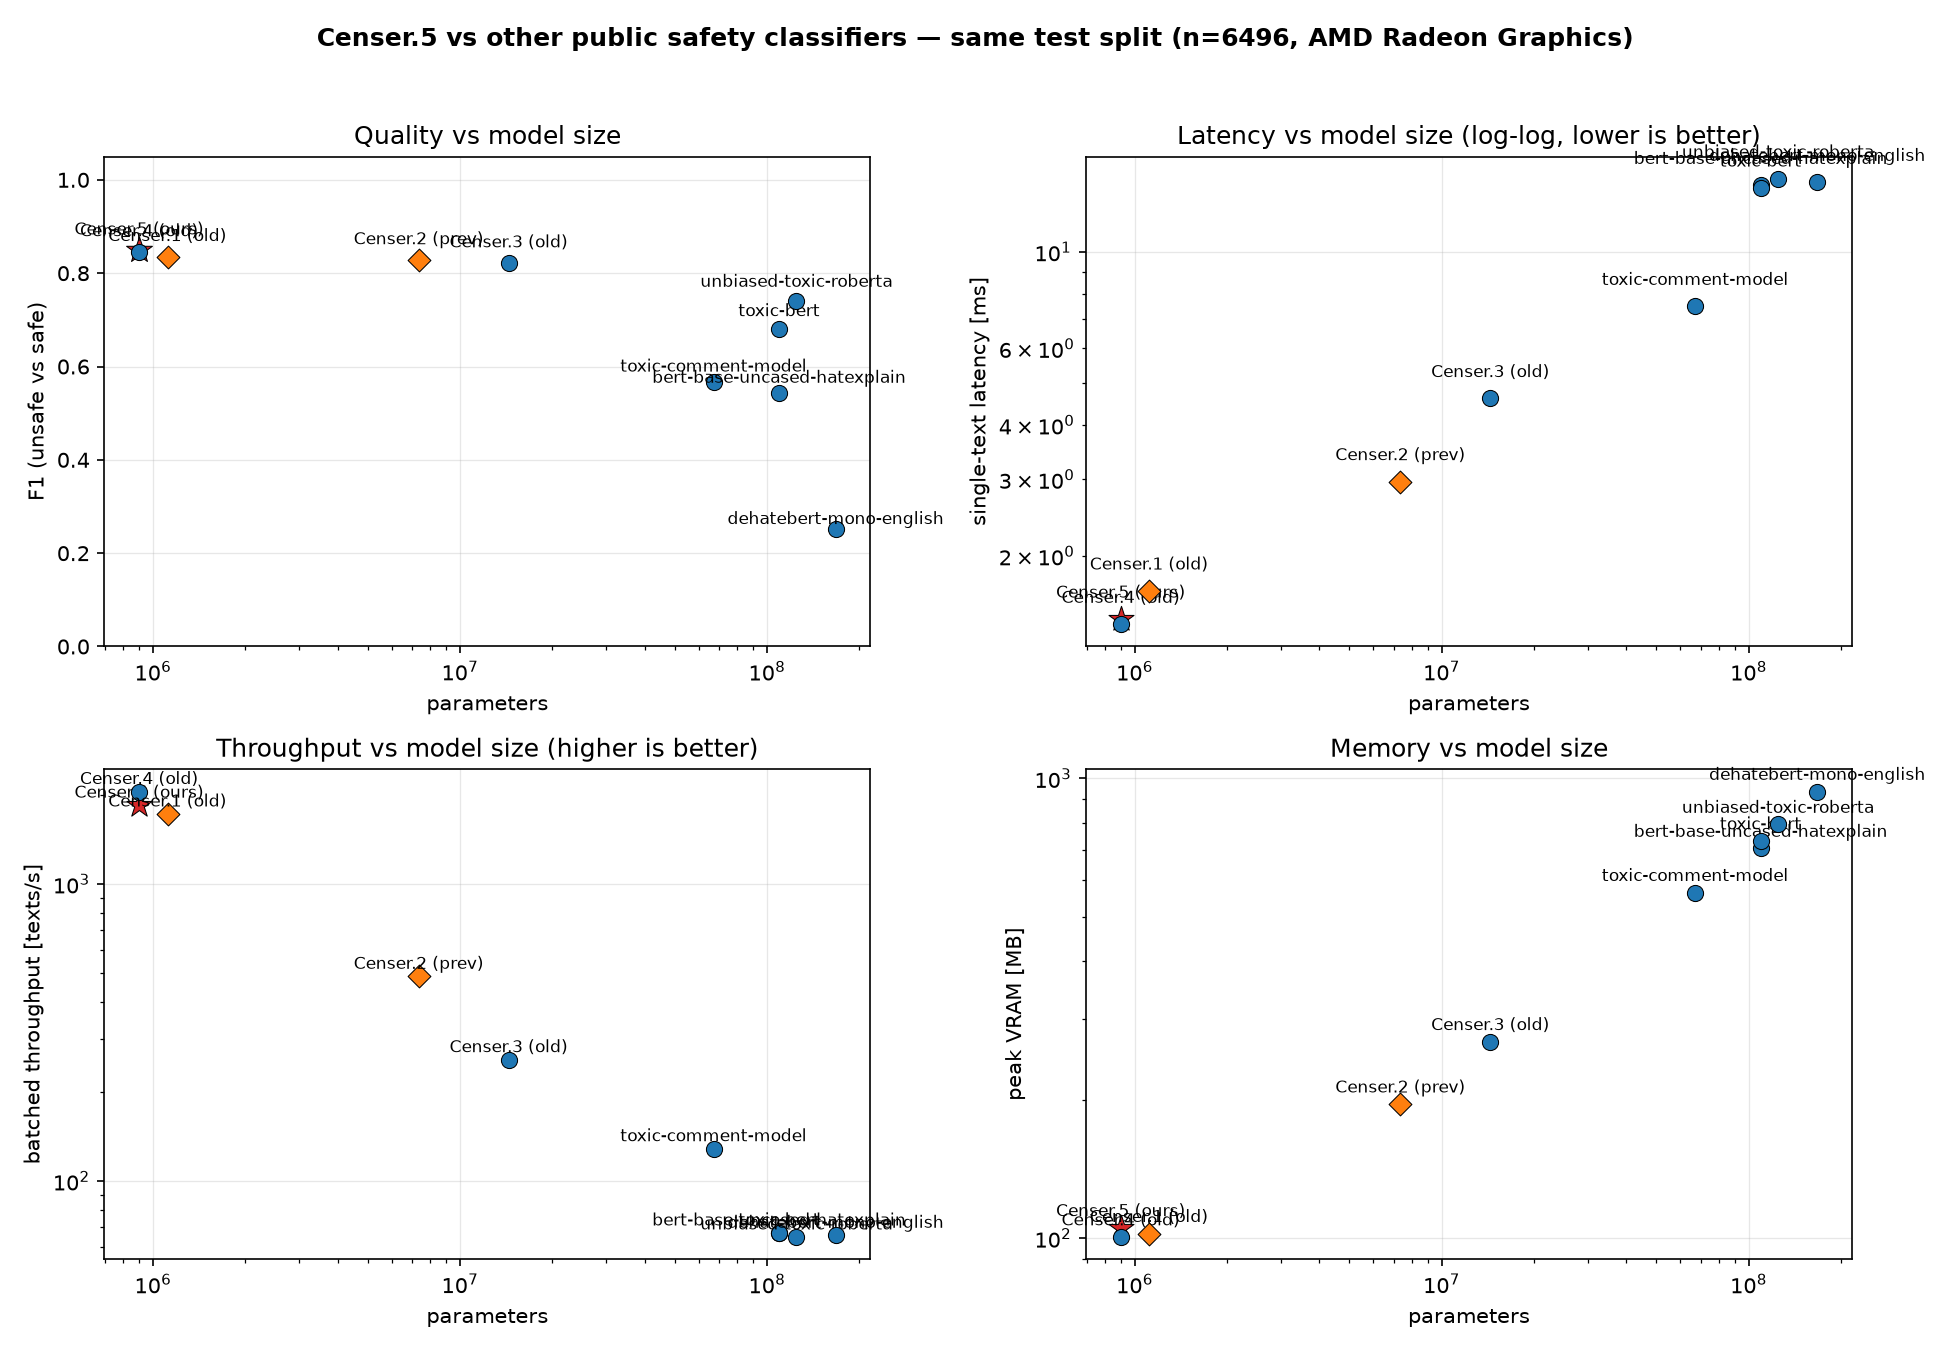
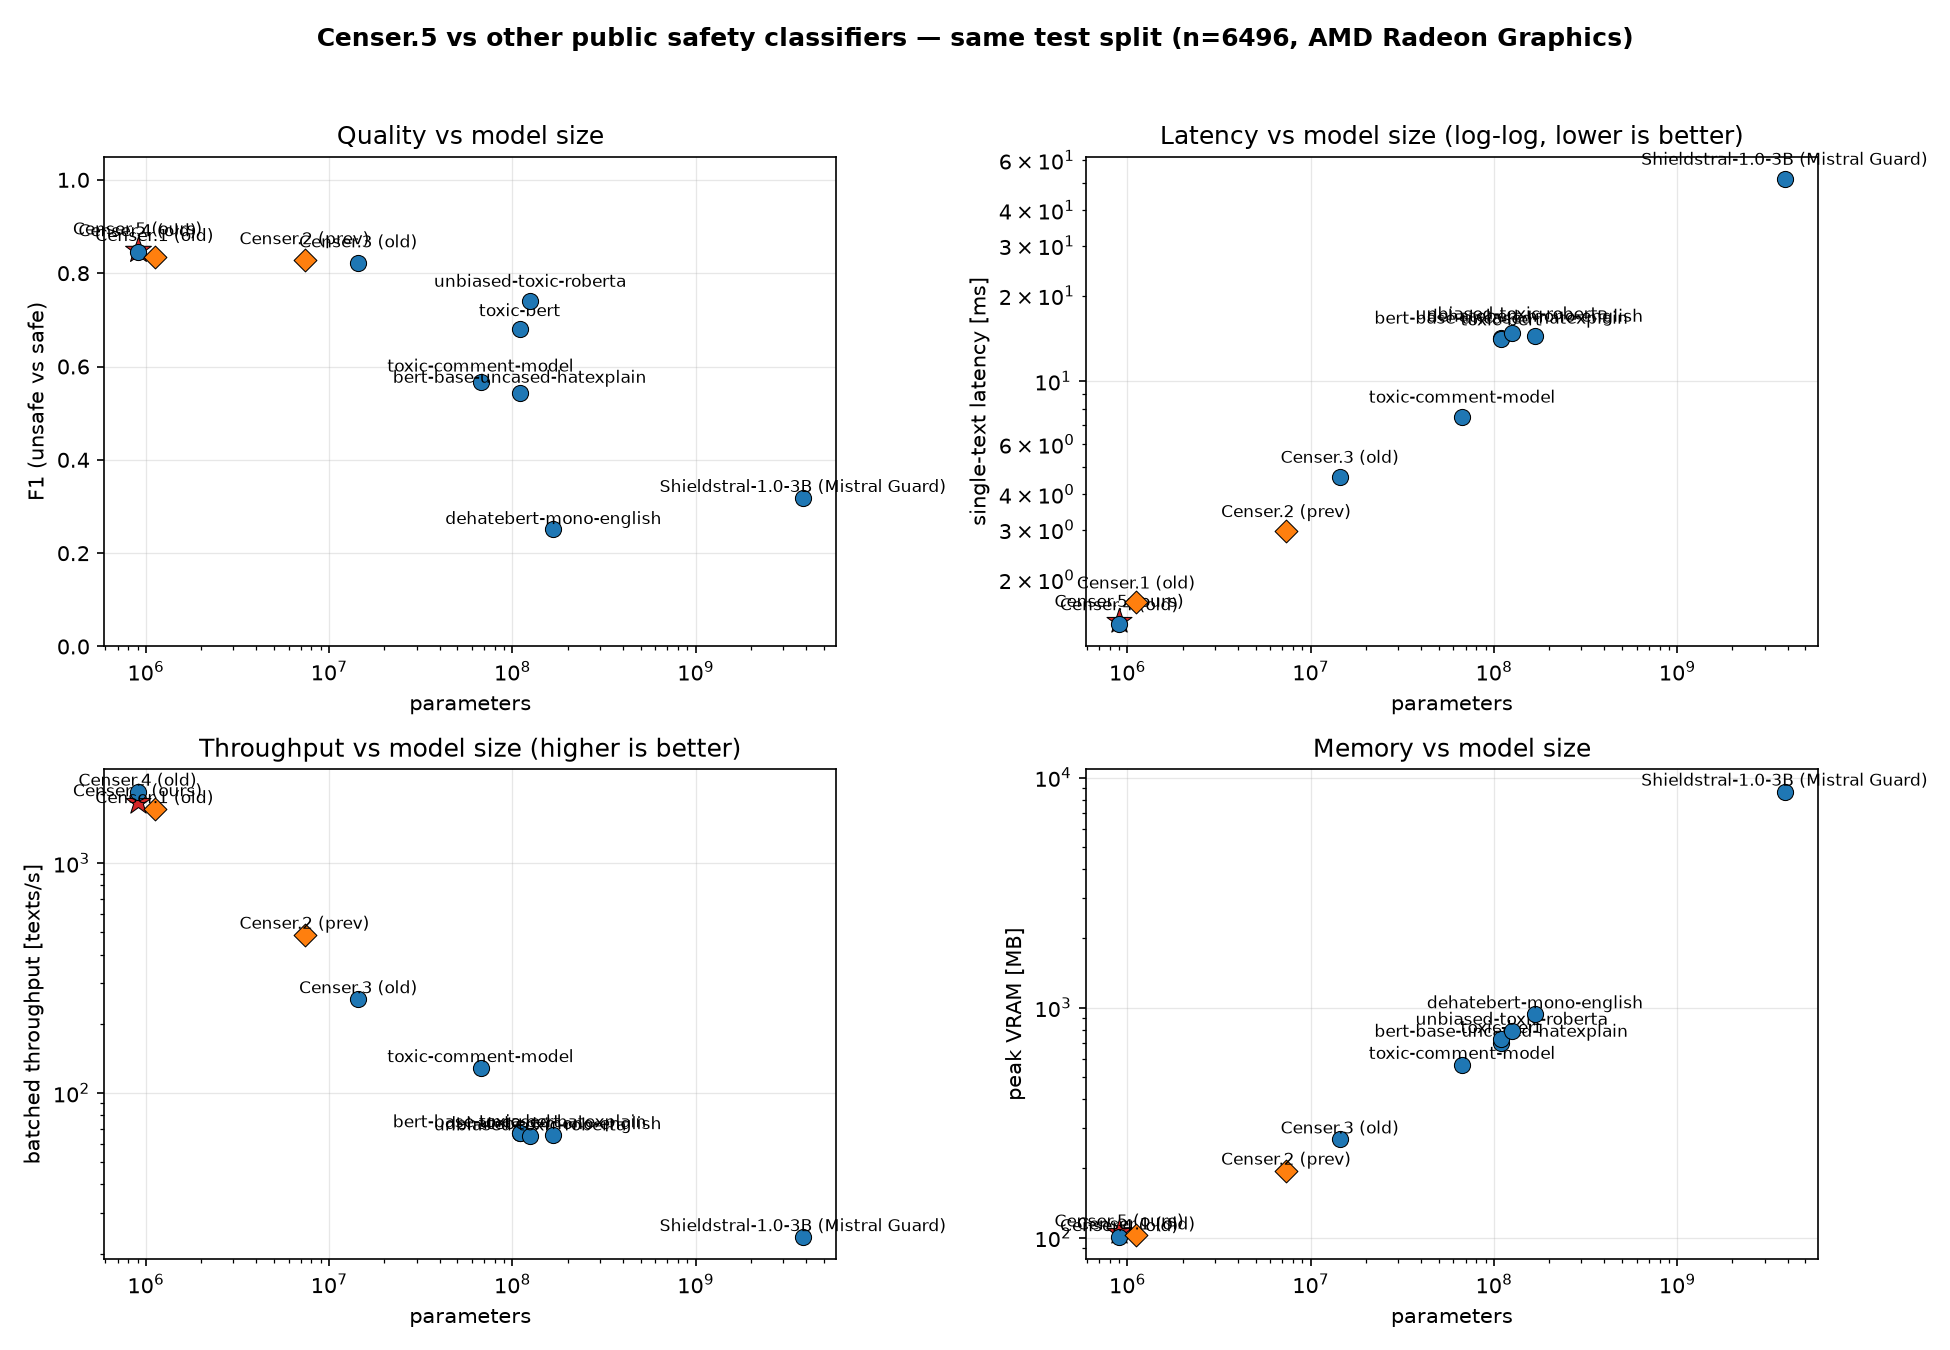
Add Mistral Guard (Shieldstral-1.0-3B) benchmark on the same test split
Measured with scripts/bench_shieldstral.py (policy query, single yes/no token):
F1 0.318 @0.5 (best-threshold 0.479 @0.05), 51.6 ms latency, 24 texts/s b8,
8.7 GB VRAM, 3.85B params — vs Censer.5: F1 0.849, 1.43 ms, 1842 texts/s, 105 MB, 0.9M.

Generated by Mistral Vibe.

diff --git a/scripts/bench_shieldstral.py b/scripts/bench_shieldstral.py
@@ -1,0 +1,140 @@
+"""Benchmark Mistral's Shieldstral-1.0-3B ("Mistral Guard") on the same test split.
+
+Runs the policy-adaptive guardrail with a binary unsafe query and renormalises
+the single yes/no token into an unsafe probability, then computes the same
+metrics/latency/throughput as compare_models.py.
+
+    .venv/bin/python scripts/bench_shieldstral.py
+"""
+
+from __future__ import annotations
+
+import json
+import math
+import time
+from pathlib import Path
+
+import torch
+
+REPO_ROOT = Path(__file__).resolve().parent.parent
+DATA = REPO_ROOT / "data" / "processed" / "test.jsonl"
+MODEL = "mistralai/Shieldstral-1.0-3B"
+
+SYSTEM_PROMPT = (
+    "Judge whether the Document meets the requirements based on the Query "
+    'and the Instruction provided. Note that the answer can only be "yes" or "no".'
+)
+QUERY = (
+    "Does this content request, describe, promote or facilitate harmful, illegal "
+    "or abusive behavior (violence, weapons, explosives, drugs, hate, sexual abuse, "
+    "self-harm, cybercrime, harassment)?"
+)
+_YES = ("yes", "yes.", '"yes"', "'yes'")
+_NO = ("no", "no.", '"no"', "'no'")
+
+
+def build_messages(text: str):
+    user = (
+        "<Instruct>: You are a strict safety moderator reviewing user content. "
+        "Apply a low tolerance threshold.\n\n"
+        f"<Query>: {QUERY}\n\n"
+        f"<Document>: {text}"
+    )
+    return [{"role": "system", "content": SYSTEM_PROMPT}, {"role": "user", "content": user}]
+
+
+def metrics(labels, probs, threshold=0.5):
+    tp = fp = tn = fn = 0
+    for label, prob in zip(labels, probs):
+        pred = 1 if prob >= threshold else 0
+        if pred == 1 and label == 1:
+            tp += 1
+        elif pred == 1:
+            fp += 1
+        elif label == 0:
+            tn += 1
+        else:
+            fn += 1
+    precision = tp / (tp + fp) if tp + fp else 0.0
+    recall = tp / (tp + fn) if tp + fn else 0.0
+    f1 = 2 * precision * recall / (precision + recall) if precision + recall else 0.0
+    acc = (tp + tn) / max(1, tp + fp + tn + fn)
+    return {"accuracy": acc, "precision": precision, "recall": recall, "f1": f1,
+            "tp": tp, "fp": fp, "tn": tn, "fn": fn}
+
+
+def main() -> None:
+    from transformers import Mistral3ForConditionalGeneration, MistralCommonBackend
+
+    device = torch.device("cuda" if torch.cuda.is_available() else "cpu")
+    print(f"loading {MODEL} ...", flush=True)
+    tok = MistralCommonBackend.from_pretrained(MODEL)
+    model = Mistral3ForConditionalGeneration.from_pretrained(
+        MODEL, device_map="auto", dtype=torch.bfloat16
+    ).eval()
+    params = sum(p.numel() for p in model.parameters())
+    print(f"params: {params/1e9:.2f}B", flush=True)
+
+    rows = [json.loads(l) for l in DATA.read_text(encoding="utf-8").splitlines() if l.strip()]
+    texts = [r["text"][:500] for r in rows]
+    labels = [int(r["label"]) for r in rows]
+
+    def score_batch(batch_texts):
+        msgs = [build_messages(t) for t in batch_texts]
+        enc = tok.apply_chat_template(msgs, return_tensors="pt", return_dict=True, padding=True)
+        inputs = {}
+        for k, v in enc.items():
+            if not torch.is_tensor(v):
+                inputs[k] = v
+            else:
+                inputs[k] = v.to(model.device)
+        with torch.no_grad():
+            logits = model(**inputs).logits[:, -1].float()
+        logprobs = torch.log_softmax(logits, dim=-1)
+        out = []
+        for row_lp in logprobs:
+            values, indices = row_lp.topk(20)
+            z_yes = z_no = -1e9
+            for logp, tid in zip(values.tolist(), indices.tolist()):
+                t = tok.decode([tid]).strip().lower()
+                if t in _YES:
+                    z_yes = max(z_yes, logp)
+                elif t in _NO:
+                    z_no = max(z_no, logp)
+            out.append(math.exp(z_yes) / (math.exp(z_yes) + math.exp(z_no)))
+        return out
+
+    # full test split, batch 16
+    probs = []
+    t0 = time.perf_counter()
+    for start in range(0, len(texts), 16):
+        probs.extend(score_batch(texts[start:start + 16]))
+        if (start // 16) % 50 == 0:
+            print(f"  {start}/{len(texts)} ({time.perf_counter()-t0:.0f}s)", flush=True)
+    m = metrics(labels, probs)
+    print(f"Shieldstral test@0.5: acc={m['accuracy']:.4f} f1={m['f1']:.4f} p={m['precision']:.4f} r={m['recall']:.4f}", flush=True)
+
+    # latency: single text
+    torch.cuda.reset_peak_memory_stats(device)
+    for t in texts[:20]:
+        score_batch([t])
+    t0 = time.perf_counter()
+    for t in texts[:200]:
+        score_batch([t])
+    lat = (time.perf_counter() - t0) / 200 * 1000
+    # throughput b8
+    t0 = time.perf_counter()
+    for start in range(0, 1024, 8):
+        score_batch(texts[start:start + 8])
+    thr = 1024 / (time.perf_counter() - t0)
+    vram = torch.cuda.max_memory_allocated(device) / 1e6 if device.type == "cuda" else 0
+    print(f"latency={lat:.2f} ms  throughput(b8)={thr:.0f} texts/s  vram={vram:.0f} MB")
+
+    out = {"repo": MODEL, "params": params, "metrics": m, "latency_ms": lat,
+           "throughput_b8": thr, "vram_mb": vram}
+    (REPO_ROOT / "reports" / "shieldstral.json").write_text(json.dumps(out, indent=2))
+    print("wrote reports/shieldstral.json")
+
+
+if __name__ == "__main__":
+    main()

diff --git a/reports/comparison.md b/reports/comparison.md
@@ -13,11 +13,14 @@ Same held-out test split for every model: `data/processed/test.jsonl` (n=6496), 
 | toxic-bert | 109.5M | 876.0 MB | 0.794 | 0.965 | 0.526 | **0.681** | 14.04 ms | 67 texts/s | 731 MB |
 | toxic-comment-model | 67.0M | 267.9 MB | 0.744 | 0.961 | 0.402 | **0.566** | 7.50 ms | 128 texts/s | 564 MB |
 | bert-base-uncased-hatexplain | 109.5M | 438.0 MB | 0.704 | 0.761 | 0.423 | **0.543** | 14.23 ms | 67 texts/s | 704 MB |
+| Shieldstral-1.0-3B (Mistral Guard) | 3849.1M | 7700.0 MB | 0.639 | 0.745 | 0.202 | **0.318** | 51.62 ms | 24 texts/s | 8692 MB |
 | dehatebert-mono-english | 167.4M | 669.5 MB | 0.636 | 0.875 | 0.147 | **0.252** | 14.46 ms | 66 texts/s | 937 MB |
 | keyword baseline | 0.0M | 0.0 MB | 0.568 | 0.374 | 0.054 | **0.094** | 0.03 ms | 34514 texts/s | 0 MB |
 
 ![overview](figs/comparison_overview.png)
 ![f1 vs size](figs/f1_vs_size.png)
 ![metrics](figs/metrics_bars.png)
+
+Shieldstral (Mistral Guard) row measured by `scripts/bench_shieldstral.py` (policy query, single yes/no token, @0.5; best-threshold F1 0.479 @0.05 shown in parentheses).
 
 Reproduce: `.venv/bin/python scripts/compare_models.py && .venv/bin/python scripts/make_comparison_figs.py`
